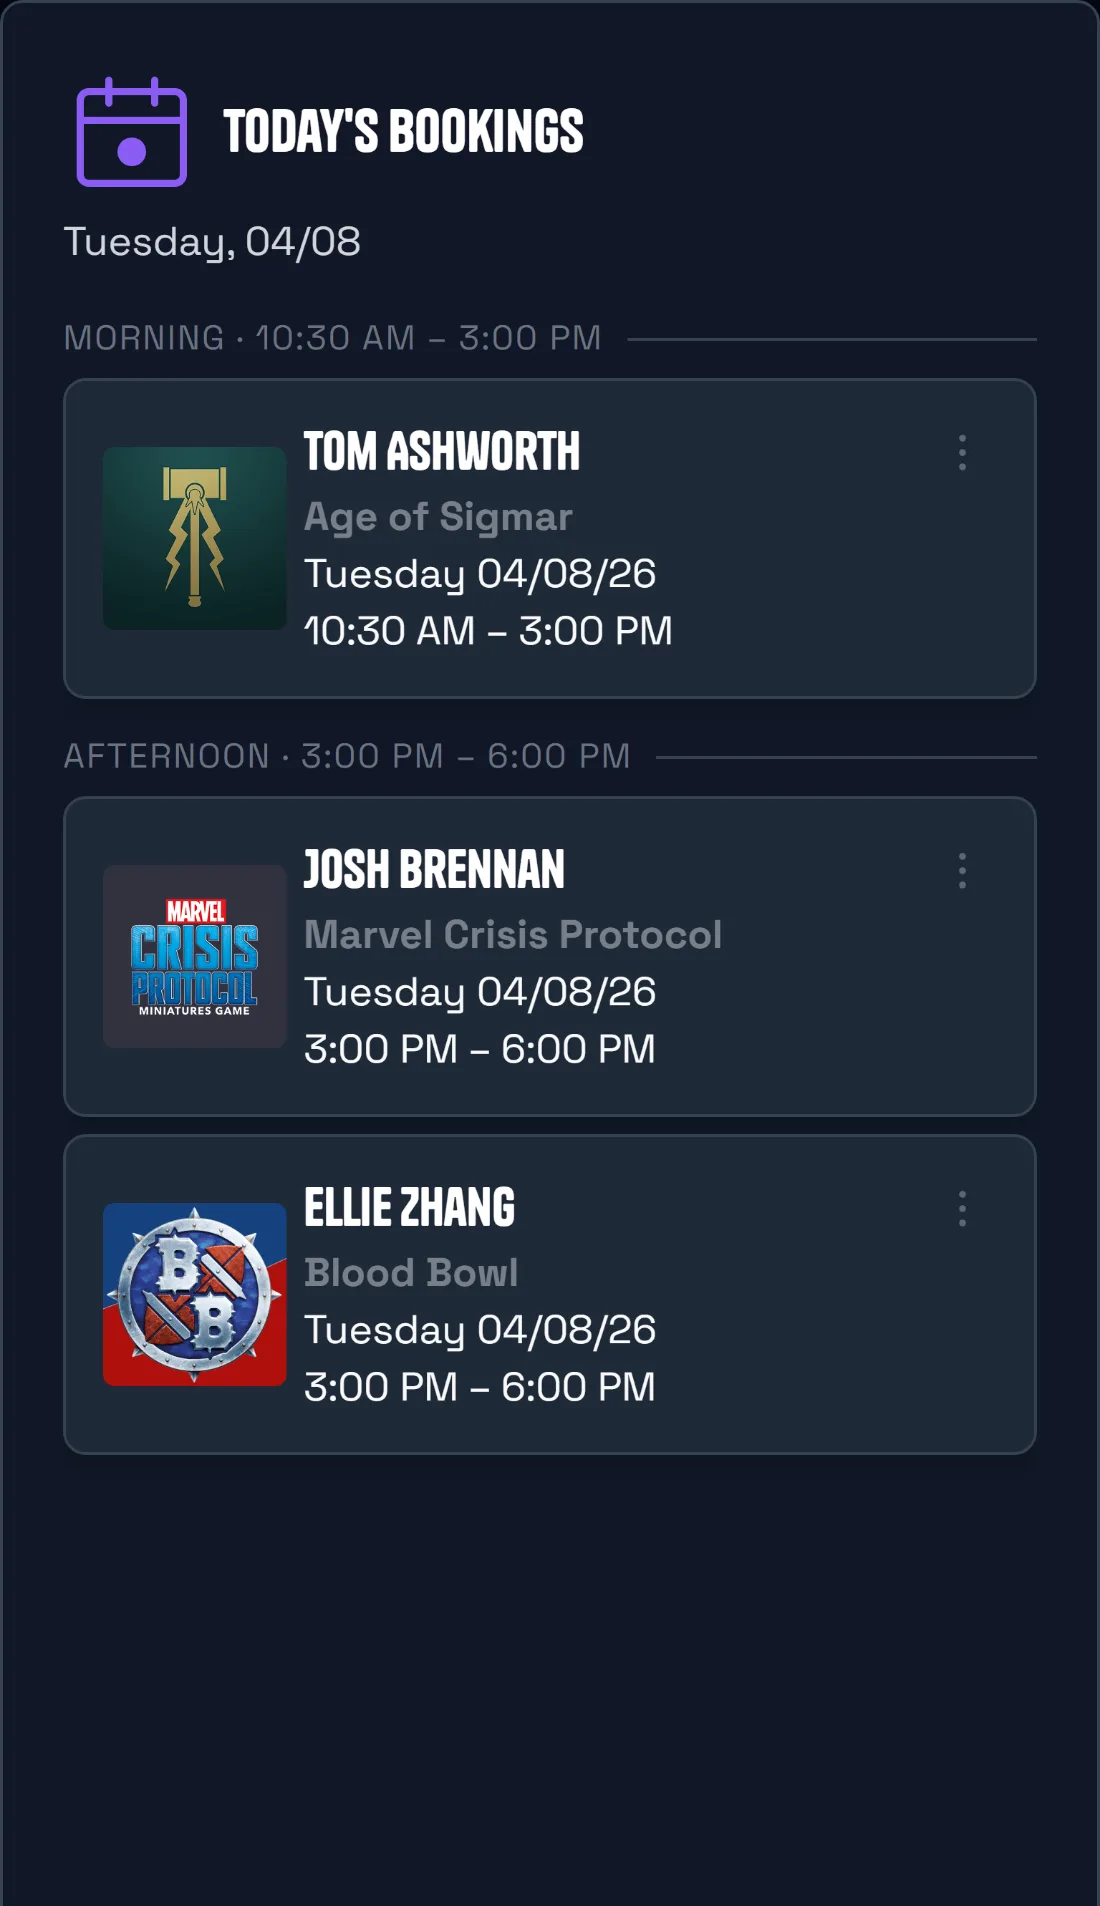
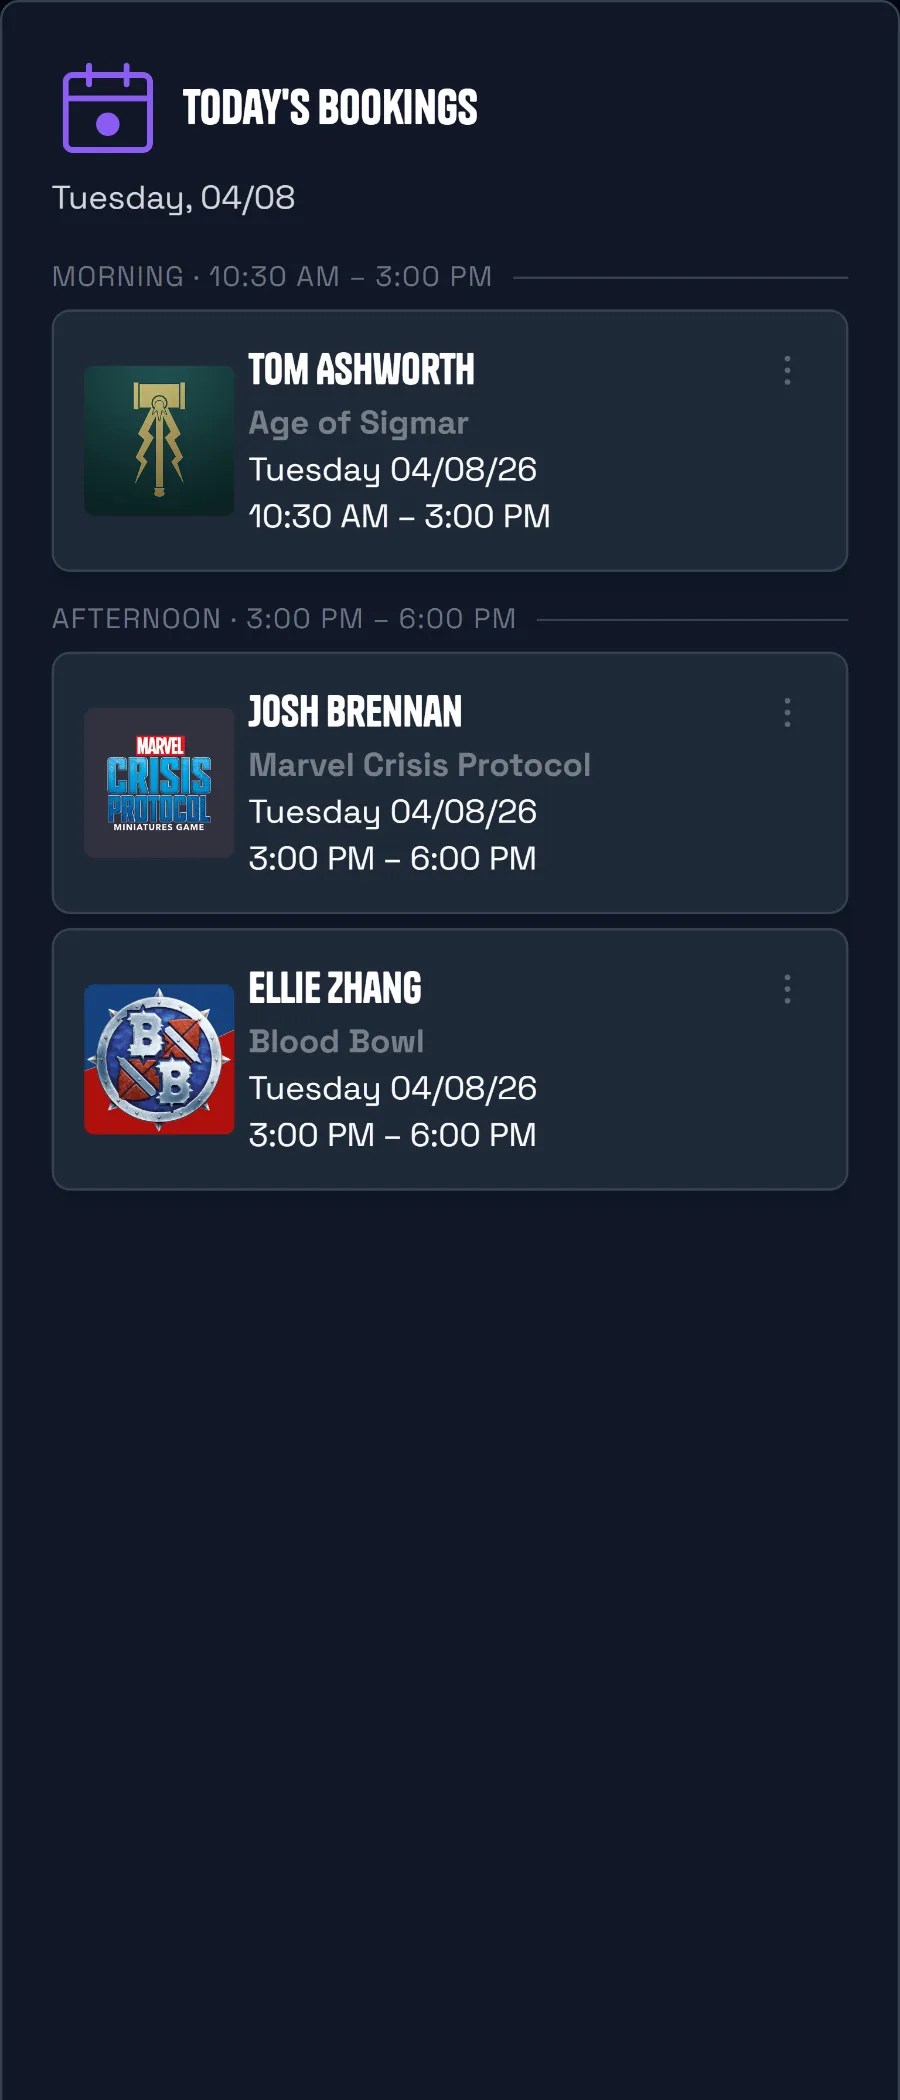
Take the column shots to 9:21, and pull them in
The tall frames go from 15:26 to 9:21, and their width drops to 80% of the
column they sit in — 392px against 494. At full width a 9:21 frame would stand
over 1100px tall and tower over the text beside it; narrower keeps the pair in
proportion, and the shape now reads as the column it actually photographs.

Three things had to move together, and the first one was a genuine blocker.

The sources weren't tall enough. A column fills the window, so a 900px viewport
caps how much of one a capture can hold, and at 15:26 several were already
clamped rather than cropped. The clip shots now capture at 1600px tall (2000 for
the wider gallery), which puts more rows in frame and leaves every source
comfortably past what 9:21 needs.

The optimiser crops to 9:21 to match. Changing only the frame would have had
object-cover trim the sides instead of revealing more height — the same trap as
last time, in the same place.

Asset widths come down with the frames: 900px for the single columns, 1150 for
the gallery. All still land between 2.3x and 2.9x their rendered size.

One simplification falls out: the battle gallery no longer needs its own ratio.
The taller capture reaches 9:21 like everything else, so the GALLERY constant is
gone and every tall frame shares one shape.

Verified in the browser: all five at 0% crop, boxes 392x914, no horizontal
overflow.

Changed region(s): [[0.0311, 0.031, 0.6533, 0.5572], [0.0933, 0.6191, 0.5911, 0.7429], [0.8711, 0.1548, 0.9022, 0.1857]]

diff --git a/apps/battleplan/src/marketing/pages/LandingPage.tsx b/apps/battleplan/src/marketing/pages/LandingPage.tsx
@@ -35,16 +35,8 @@ import shotFriends from '../assets/shots/player-friends.webp';
 
 /* Match each asset's own shape — see FeatureDeepDive's `aspect`. */
 const LANDSCAPE = 'aspect-[8/5]';
-/* 30% taller than the 3:4 these started at — a column screenshot has more to
-   show vertically than a landscape box gives it room for. */
-const COLUMN    = 'aspect-[15/26]';
-/*
- * The battle gallery gets its own shape. It lays out two cards per row, so the
- * column is wider than the single-column clips and its capture runs out of
- * height before reaching 15:26 — squeezing it into that box would crop roughly
- * 9% off the sides, straight through the outer cards.
- */
-const GALLERY   = 'aspect-[7/11]';
+/* Tall and narrow, closer to the shape of the column it photographs. */
+const COLUMN    = 'aspect-[9/21]';
 
 const PILLARS: Pillar[] = [
   {
@@ -150,6 +142,7 @@ export default function LandingPage() {
           src={shotBookings}
           alt="The bookings column, listing tables booked at Burrow Games with the game and timeslot for each."
           aspect={COLUMN}
+          narrowImage
         />
       </Section>
 
@@ -167,7 +160,8 @@ export default function LandingPage() {
           imageSide="right"
           src={shotBattles}
           alt="The battle gallery: each game shown as a card with a photograph of the table, the opponent and the result."
-          aspect={GALLERY}
+          aspect={COLUMN}
+          narrowImage
         >
           <Callout
             quote="You booked a table on the 14th. Did you play?"
@@ -210,6 +204,7 @@ export default function LandingPage() {
           src={shotFriends}
           alt="The friends column, showing an incoming friend request and a list of connected players."
           aspect={COLUMN}
+          narrowImage
         />
       </Section>
 

diff --git a/apps/battleplan/src/marketing/components/FeatureDeepDive.tsx b/apps/battleplan/src/marketing/components/FeatureDeepDive.tsx
@@ -21,6 +21,7 @@ export function FeatureDeepDive({
   src,
   alt,
   aspect,
+  narrowImage = false,
   children,
 }: {
   eyebrow: string;
@@ -38,6 +39,8 @@ export function FeatureDeepDive({
    * into the other's box crops away the half that matters.
    */
   aspect?: string;
+  /** Pull the frame in to 80% of its column. For the tall portrait shots. */
+  narrowImage?: boolean;
   /** Anything that belongs under the bullets — the Callout, usually. */
   children?: React.ReactNode;
 }) {
@@ -46,12 +49,20 @@ export function FeatureDeepDive({
   return (
     <div className="grid items-center gap-12 lg:grid-cols-2 lg:gap-20">
       <Reveal className={imageFirst ? 'lg:order-1' : 'lg:order-2'}>
-        <ScreenshotFrame
-          mock={mock}
-          src={src}
-          alt={alt}
-          aspect={aspect ?? 'aspect-[4/3]'}
-        />
+        {/*
+          Narrow frames sit centred in their half of the row rather than filling
+          it. At 9:21 a full-width frame would be over 1100px tall and tower
+          over the text beside it; pulling the width in keeps the pair in
+          proportion and makes the shape read as a phone-ish column.
+        */}
+        <div className={narrowImage ? 'mx-auto w-4/5' : ''}>
+          <ScreenshotFrame
+            mock={mock}
+            src={src}
+            alt={alt}
+            aspect={aspect ?? 'aspect-[4/3]'}
+          />
+        </div>
       </Reveal>
 
       <div className={imageFirst ? 'lg:order-2' : 'lg:order-1'}>

diff --git a/apps/battleplan/src/marketing/pages/VenuePage.tsx b/apps/battleplan/src/marketing/pages/VenuePage.tsx
@@ -34,9 +34,8 @@ import shotToday from '../assets/shots/venue-today.webp';
 import shotStats from '../assets/shots/venue-stats.webp';
 
 const LANDSCAPE = 'aspect-[8/5]';
-/* 30% taller than the 3:4 these started at — a column screenshot has more to
-   show vertically than a landscape box gives it room for. */
-const COLUMN    = 'aspect-[15/26]';
+/* Tall and narrow, closer to the shape of the column it photographs. */
+const COLUMN    = 'aspect-[9/21]';
 
 const PILLARS: Pillar[] = [
   {
@@ -156,6 +155,7 @@ export default function VenuePage() {
           src={shotTables}
           alt="The tables panel, each table listed with the timeslots it can be booked in."
           aspect={COLUMN}
+          narrowImage
         />
       </Section>
 
@@ -174,6 +174,7 @@ export default function VenuePage() {
           src={shotToday}
           alt="Today's bookings at a venue, grouped by timeslot, showing who is in and what they are playing."
           aspect={COLUMN}
+          narrowImage
         />
       </Section>
 
